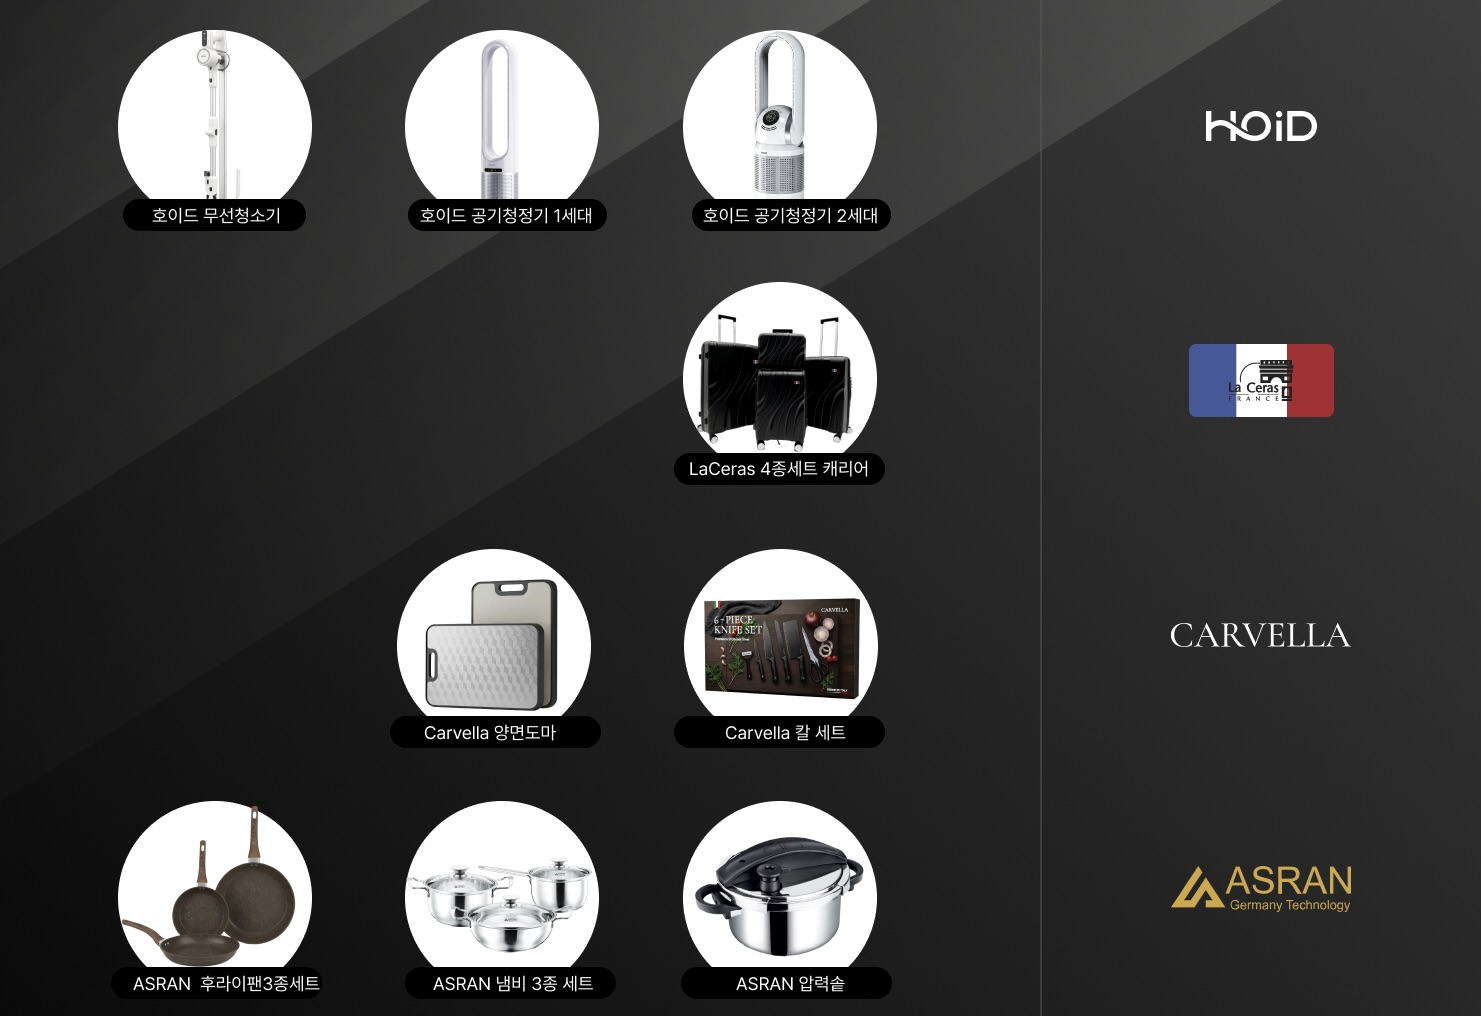
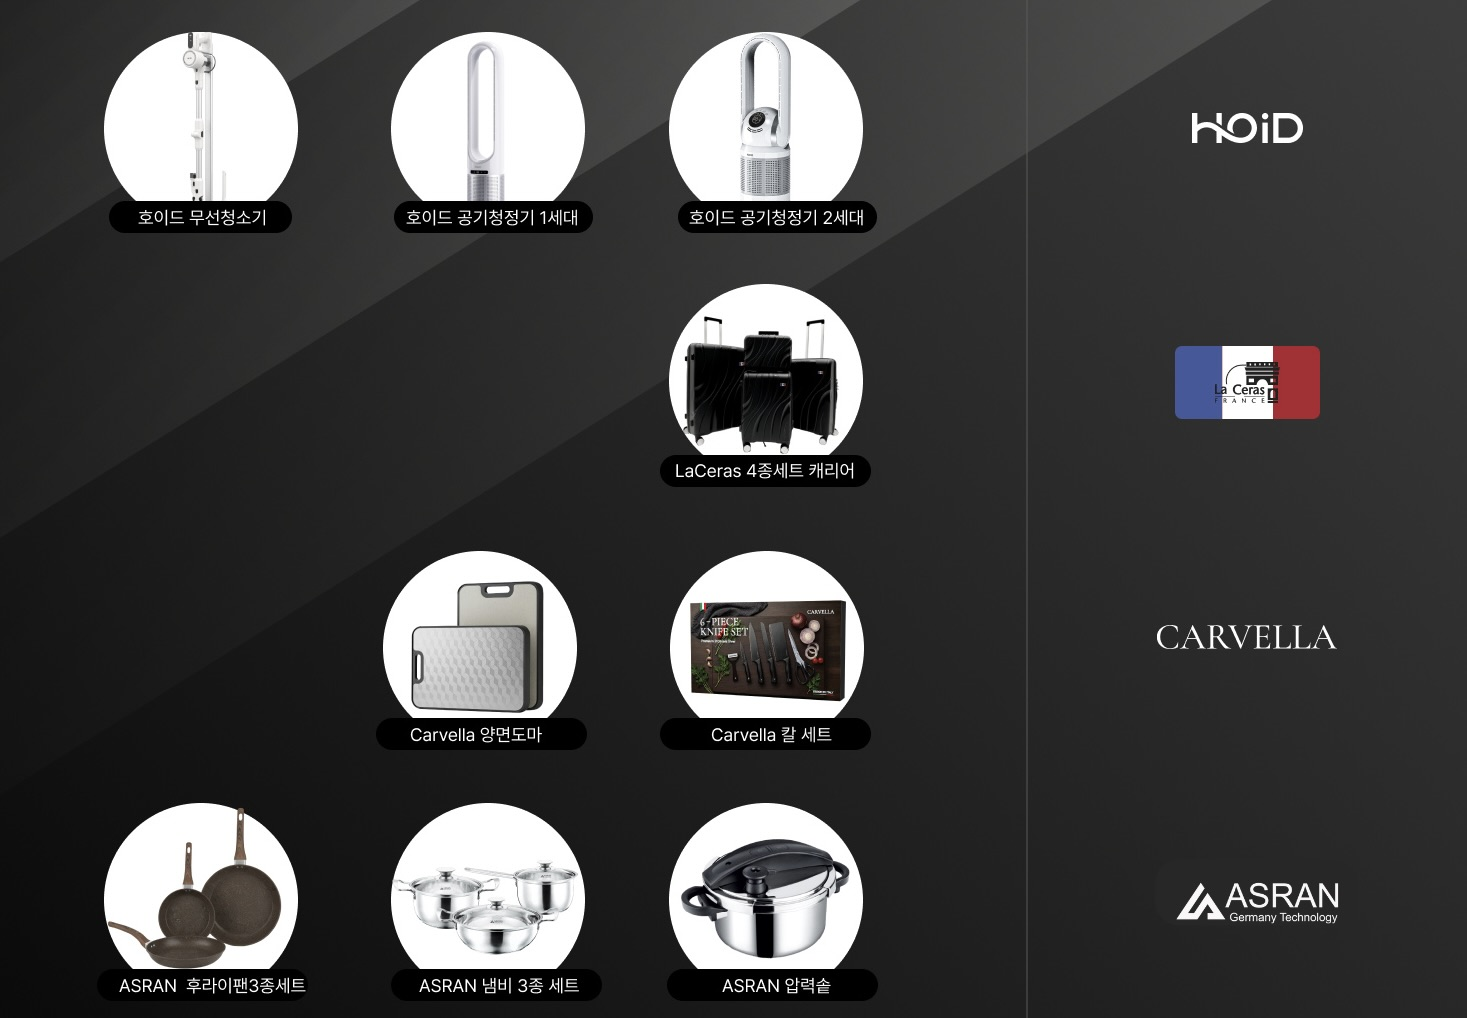
조직도 및 전체 브랜드 이미지 교체

diff --git a/client/src/pages/home.tsx b/client/src/pages/home.tsx
@@ -240,7 +240,7 @@ export default function Home() {
   const [currentServiceIndex, setCurrentServiceIndex] = useState(0);
   const serviceCarouselRef = useRef<HTMLDivElement>(null);
   const [currentBrandIndex, setCurrentBrandIndex] = useState(0);
-  const [isPaused, setIsPaused] = useState(false);
+  const [isPaused, setIsPaused] = useState(true);
   const [imageLoaded, setImageLoaded] = useState(true);
   const [nextBrandIndex, setNextBrandIndex] = useState(0);
   const [isScrolling, setIsScrolling] = useState(false);

diff --git a/client/src/pages/about.tsx b/client/src/pages/about.tsx
@@ -23,7 +23,7 @@ import globalImage from "@assets/13730_1754568375896.jpg";
 import trustImage from "@assets/hands_1754568922347.png";
 import peopleImage from "@assets/people_1754639134434.jpg";
 import mapImage from "@assets/map_1754832577677.png";
-import newOrganizationChart from "@assets/mo_company.png";
+import newOrganizationChart from "@assets/company.png";
 
 // SVG 컴포넌트들
 const HeroBackgroundSVG = () => (
